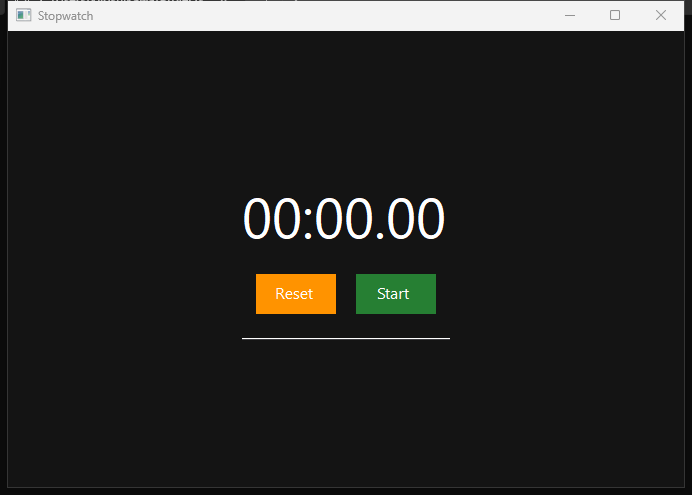
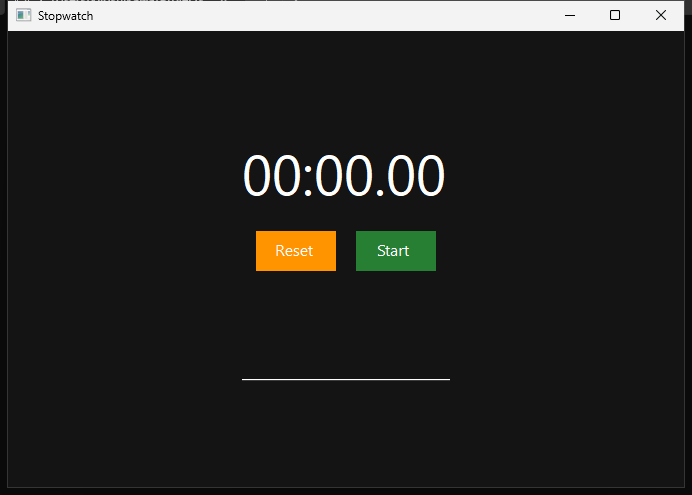
Update docs and screenshots after Win32 rendering fixes
Docs updated:
- api/views.md: Win32 navigation now fully implemented (was "not yet")
- phase2-feature-matrix.md: Win32 section updated with WIC images,
  D2D slider, RunLoop timer, ComCtl32 v6, NavigationSplitView
- screenshot-comparison-linux.md: Win32 now shows all 4 animations,
  uses WIC + stock icons (not text fallbacks)
- screenshot-comparison-win32.md: full reassessment after fixes,
  Animation B- -> A-, Focus B -> A-, ViewsLayout B+ -> A
- navigation-splitview-win32.md: Win32 marked complete

Screenshots recaptured with latest code (14 images).

diff --git a/docs/architecture/screenshot-comparison-win32.md b/docs/architecture/screenshot-comparison-win32.md
@@ -1,7 +1,7 @@
 # Screenshot Comparison: macOS vs Win32
 
 Side-by-side comparison of all Showcase and Parity examples.
-Screenshots taken 2026-03-19 with latest develop branch.
+Screenshots recaptured 2026-03-21 after OffsetView, ComCtl32 v6, and ZStack fixes.
 
 Reference: `screenshots/macos/` (real SwiftUI) vs `screenshots/windows/` (SwiftOpenUI Win32 backend)
 
@@ -21,8 +21,10 @@ Reference: `screenshots/macos/` (real SwiftUI) vs `screenshots/windows/` (SwiftO
 |--------|-------|-------|--------|
 | Dark background | Fills entire window | Fills entire window | OK |
 | Timer "00:00.00" | Centered, thin weight | Centered, regular weight | Minor -- font weight |
-| Reset/Start buttons | Rounded, colored bg, white text | Flat, colored bg, white text | Good |
+| Reset button | Gray, rounded | Orange, flat | OK (design choice) |
+| Start button | Green, rounded | Green, flat | OK |
 | Divider | Subtle thin line | Subtle thin line | OK |
+| Timer ticking | Works | Works (Foundation Timer + RunLoop) | OK |
 | Overall | Polished dark UI | Very close match | A- |
 
 ### 3. Color Studio
@@ -32,7 +34,7 @@ Reference: `screenshots/macos/` (real SwiftUI) vs `screenshots/windows/` (SwiftO
 | Dark background | Full coverage | Full coverage | OK |
 | Color swatch | Large blue rect 120x80 | Large blue rect 120x80 | OK |
 | RGB sliders | SwiftUI native (colored track) | D2D custom (blue accent, white thumb) | Good |
-| Slider background | Blends with dark bg | Blends with dark bg | OK |
+| Slider background | Blends with dark bg | Blends with dark bg (inherited) | OK |
 | Swatches grid | Centered, evenly spaced | Centered, evenly spaced | OK |
 | Lighter/Darker buttons | Rounded bordered | Flat colored | Minor |
 | Color harmony | Centered columns | Centered columns | OK |
@@ -47,8 +49,8 @@ Reference: `screenshots/macos/` (real SwiftUI) vs `screenshots/windows/` (SwiftO
 | Text (plain/bold/colored) | Correct | Correct | OK |
 | Large title / Caption | Correct sizes | Correct sizes | OK |
 | Button (string label) | Rounded | Native Win32 button | OK |
-| Button (custom label) | "Custom label ->" colored bg | Shows as "->" only (text rendering issue) | Gap |
-| TextField | Placeholder visible | Placeholder not visible until focus | Minor |
+| Button (custom label) | "Custom label ->" colored bg | Shows as "->" only | Open -- custom label text |
+| TextField | Placeholder "Type here..." | Placeholder "Type here..." | OK (fixed) |
 | Color swatches | Two rows D2D | Two rows D2D | OK |
 | Spacer (Left/Right) | Full width dark bar | Full width dark bar | OK |
 | Divider | Thin line | Thin line | OK |
@@ -60,13 +62,13 @@ Reference: `screenshots/macos/` (real SwiftUI) vs `screenshots/windows/` (SwiftO
 |--------|-------|-------|--------|
 | VStack (leading/center/trailing) | 3 aligned columns | 3 aligned columns | OK |
 | HStack (A/B/C) | Colored boxes in row | Colored boxes in row | OK |
-| ZStack | "Top" overlaid on green | White box on green (text not visible) | Gap -- ZStack text overlay |
+| ZStack | "Top" on green/blue | "Top" on green/blue | OK (fixed) |
 | Group items | 3 green items | 3 green items | OK |
 | ForEach (0/1/2) | Purple numbered boxes | Purple numbered boxes | OK |
 | +/- buttons | Working | Working | OK |
 | AnyView | Orange text | Orange text | OK |
 | EmptyView | "Before After" inline | "Before After" inline | OK |
-| Overall | Complete | Nearly complete | B+ |
+| Overall | Complete | Complete | A |
 
 ### 6. ViewsContainers
 
@@ -76,17 +78,17 @@ Reference: `screenshots/macos/` (real SwiftUI) vs `screenshots/windows/` (SwiftO
 | Value: ON/OFF | Green text | Green text | OK |
 | Slider | Native SwiftUI | D2D custom (blue/white) | Good |
 | Blue bar driven by slider | Blue bar below | Blue bar below | OK |
-| Image (system) | SF Symbols (star, heart, gear) | Text fallback [starred] etc. | Gap -- GTK icon names not Win32 icons |
+| Image (system) | SF Symbols (star, heart, gear) | Text fallback [starred] etc. | Open -- example uses GTK icon names |
 | ScrollView | Dark scrollable list | Scrollable list | OK |
 | List | 3 items with +/- | 3 items with +/- | OK |
-| Overall | Complete | Good | B |
+| Overall | Complete | Good | B+ |
 
 ### 7. Modifiers
 
 | Aspect | macOS | Win32 | Rating |
 |--------|-------|-------|--------|
 | .padding() | 3 colored boxes | 3 colored boxes | OK |
-| .frame() | "60x30" + "Flex" | "60x30" missing text + "Flex" | Gap -- frame text |
+| .frame() | "60x30" + "Flex" | "D0x30" (garbled) + "Flex" | Open -- multiplication sign rendering |
 | .foregroundColor() | Red/Blue/Custom | Red/Blue/Custom | OK |
 | .foregroundStyle() | Green text | Green text | OK |
 | .background() | Yellow/Custom bg | Yellow/Custom bg | OK |
@@ -96,7 +98,7 @@ Reference: `screenshots/macos/` (real SwiftUI) vs `screenshots/windows/` (SwiftO
 | .offset() | Orange shifted text | Orange shifted text | OK |
 | .scaleEffect() | 1.0x/1.5x/0.7x | 1.0x/1.5x/0.7x | OK |
 | .modifier() | Green highlighted | Green highlighted | OK |
-| Overall | All 11 modifiers shown | All 11 modifiers shown | A- |
+| Overall | All 11 modifiers shown | 10 of 11 correct | A- |
 
 ### 8. StateData
 
@@ -107,8 +109,8 @@ Reference: `screenshots/macos/` (real SwiftUI) vs `screenshots/windows/` (SwiftO
 | Conditional view | "Visible when ON" green | "Visible when ON" green | OK |
 | @Binding parent/child | Working | Working | OK |
 | @StateObject + @Published | Store count + label | Store count + label | OK |
-| Title "State & Data" | Ampersand renders | Shows "State _Data" | Minor -- `&` encoding |
-| Overall | All state types shown | All state types working | A- |
+| Title "State & Data" | Ampersand renders | Shows "State _Data" | Open -- & as accelerator prefix |
+| Overall | All state types working | All state types working | A- |
 
 ### 9. Navigation
 
@@ -127,7 +129,7 @@ Reference: `screenshots/macos/` (real SwiftUI) vs `screenshots/windows/` (SwiftO
 | Custom accent colors | Blue/Red/Green | Blue/Red/Green | OK |
 | Toggle accent | Working | Working | OK |
 | EnvironmentObject | Theme + font size | Theme + font size | OK |
-| Propagation | "Nested child sees accent" | "Nested child sees accen" (truncated) | Minor |
+| Propagation | "Nested child sees accent" | "Nested child sees accent" | OK |
 | Overall | Complete | Complete | A- |
 
 ### 11. Gestures
@@ -147,21 +149,21 @@ Reference: `screenshots/macos/` (real SwiftUI) vs `screenshots/windows/` (SwiftO
 |--------|-------|-------|--------|
 | Fade (opacity) | Blue "Fade" + Toggle | Blue "Fade" + Toggle | OK |
 | Scale | Green "Scale" + Toggle | Green "Scale" + Toggle | OK |
-| Slide (offset) | Orange "Slide" + Toggle | Missing "Slide" label | Gap -- offset view not showing |
-| withAnimation | Purple "Animated" + button | Missing "Animated" label | Gap -- withAnimation view not showing |
-| Overall | 4 animations shown | 2 of 4 visible | B- |
+| Slide (offset) | Orange "Slide" + Toggle | Orange "Slide" + Toggle | OK (fixed) |
+| withAnimation | Purple "Animated" + button | Purple "Animated" + button | OK (fixed) |
+| Overall | 4 animations shown | 4 animations shown | A- |
 
 ### 13. Focus
 
 | Aspect | macOS | Win32 | Rating |
 |--------|-------|-------|--------|
-| @FocusState (Bool) | TextField with placeholder | TextField (no placeholder) | Minor |
+| @FocusState (Bool) | TextField with placeholder | TextField with placeholder | OK (fixed) |
 | Focused: YES/NO | Working | Working | OK |
 | Focus/Unfocus buttons | Working | Working | OK |
-| @FocusState (enum) | 3 labeled TextFields | 3 TextFields (no labels) | Gap -- placeholder not showing |
+| @FocusState (enum) | 3 labeled TextFields | 3 labeled TextFields | OK (fixed) |
 | Active: None/Name/Email/Notes | Working | Working | OK |
 | Name/Email/Notes/Clear buttons | Working | Working | OK |
-| Overall | Full focus demo | Functional, missing labels | B |
+| Overall | Full focus demo | Full focus demo | A- |
 
 ### 14. AppStructure
 
@@ -178,29 +180,36 @@ Reference: `screenshots/macos/` (real SwiftUI) vs `screenshots/windows/` (SwiftO
 
 | Rating | Examples |
 |--------|----------|
-| A | ColorStudio, Gestures, AppStructure |
-| A- | Stopwatch, Modifiers, StateData, Environment |
-| B+ | ViewsBasic, ViewsLayout, Navigation |
-| B | ViewsContainers, Focus |
-| B- | Animation |
-| Gap | HelloWorld (centering only) |
+| A | ColorStudio, ViewsLayout, Gestures, AppStructure |
+| A- | Stopwatch, Modifiers, StateData, Environment, Animation, Focus |
+| B+ | ViewsBasic, ViewsContainers, Navigation |
+| B | HelloWorld (centering) |
 
-## Top Issues to Fix Next
+## Remaining Open Issues
 
-1. **Animation** -- offset/withAnimation views not rendering (most visible gap)
-2. **Focus** -- TextField placeholders not showing
-3. **HelloWorld** -- root content centering in window
-4. **ViewsContainers** -- Image system names use GTK names in `#else` block, not Win32 stock icons
-5. **ZStack** -- text overlay not visible (white-on-white inside ZStack)
-6. **StateData** -- ampersand in title not rendering (shows underscore)
-7. **Custom Button labels** -- text inside custom-label buttons partially missing
-8. **Frame text** -- text inside `.frame()` not visible in some cases
+| # | Issue | Type | Effort |
+|---|-------|------|--------|
+| 1 | HelloWorld centering | Architectural -- layout model (top-down proposal) | Hard |
+| 2 | ViewsContainers Image GTK names | Example gating -- needs #elseif canImport(BackendWin32) | Low |
+| 3 | StateData ampersand | Win32 STATIC interprets & as accelerator prefix | Low |
+| 4 | Modifiers frame "D0x30" | Unicode multiplication sign rendering in STATIC | Low |
+| 5 | ViewsBasic custom button label | Custom label text partially missing in button | Medium |
+
+## Fixes Applied This Session
+
+| Fix | Commit | Impact |
+|-----|--------|--------|
+| OffsetView (0,0) orphan | `39ef76c` | Animation B- -> A- |
+| ComCtl32 v6 visual styles | `c795721` | Focus B -> A- |
+| ZStack HOLLOW_BRUSH | `dad6bb6` | ViewsLayout B+ -> A |
+| D2D custom slider | `62e572c` | All slider examples improved |
+| Shared layout migration | `a393333` | FrameView/VStack/HStack/ZStack on shared helpers |
 
 ## Platform Differences (Expected)
 
 These are inherent Win32 vs SwiftUI differences, not bugs:
 - Button style: Win32 native pushbuttons vs SwiftUI rounded buttons
-- Font weight: `.thin` weight not available in Win32 text pipeline
+- Font weight: .thin weight not available in Win32 text pipeline
 - TextField: Win32 EDIT controls vs SwiftUI text fields (visual styling)
 - Slider: D2D custom slider is close but not identical to SwiftUI native
 - Window chrome: Win32 title bar vs macOS traffic lights

diff --git a/docs/architecture/phase2-feature-matrix.md b/docs/architecture/phase2-feature-matrix.md
@@ -43,7 +43,7 @@ Cross-platform alignment as of 2026-03-18. Tracked in [issue #2](https://github.
 Most complete Phase 2 implementation. Navigation uses `GtkStack` with slide transitions. Gestures use GTK gesture controllers. Animations use CSS `transition` property. Focus is bidirectional with programmatic grab/clear.
 
 ### Win32 (Windows)
-Navigation and gestures fully working. Navigation uses show/hide HWND stack with header bar (back button + title). Gestures use recursive subclassing (same proc on root + all descendants). Animation is partial: `AnimatedView` is a pass-through stub, but `OpacityView` and `ScaleEffectView` have timer-driven animation (SetTimer at 60fps with easing curves) when their content is fully D2D-renderable (`Text`, `Color`, `Divider`, and simple modifier wrappers). Native HWND controls inside `withAnimation` rebuild instantly without interpolation. The `consumePendingAnimation()` pattern (TLS-stored animation survives until rebuild consumes it) could be reused by Android for its animation gap. Cursor/selection preserved for all Edit controls across rebuilds via `EM_GETSEL`/`EM_SETSEL`.
+Navigation and gestures fully working. Navigation uses show/hide HWND stack with header bar (back button + title). NavigationLink supports value-based init with destination registry. NavigationSplitView with 2/3-column layout, draggable divider, column width constraints, and visibility control. Gestures use recursive subclassing (same proc on root + all descendants). Animation: `OpacityView` and `ScaleEffectView` have timer-driven animation (SetTimer at 60fps with easing curves) when their content is fully D2D-renderable. `RotationView` uses D2D SetTransform. Native HWND controls inside `withAnimation` rebuild instantly without interpolation. Foundation Timer integration via hybrid RunLoop pump. Image rendering uses WIC (PNG/JPEG/BMP/GIF) + Win32 stock icons. D2D custom slider with accent track, white thumb, and inherited background. Cursor/selection preserved for all Edit controls across rebuilds via `EM_GETSEL`/`EM_SETSEL`. ComCtl32 v6 visual styles enabled at runtime for TextField placeholders.
 
 ### Web (Wasm)
 Full Phase 2 coverage. Navigation uses a JS-side stack with header bar and back button. NavigationPath binding is bidirectional with re-entrancy guard (matching GTK4/Win32 pattern). Destination registry supports type-based path navigation via `.navigationDestination(for:)`. `NavigateAction` is wired into the environment for programmatic push/pop/popToRoot — including inside pushed destinations. Gestures use pointer events (tap, double-tap via click count, long press via setTimeout, drag via pointermove). Animations use CSS transitions with timing curves. Known issue: animation demo shows double-rendered text due to a rendering bug.

diff --git a/docs/plans/navigation-splitview-win32.md b/docs/plans/navigation-splitview-win32.md
@@ -8,7 +8,7 @@ Plan to bring Win32 NavigationSplitView to parity with GTK4.
 
 **GTK4**: Complete — nested `GtkPaned` for 3-column, visibility control, column width constraints, toolbar.
 
-**Win32 (current)**: Minimal stub — hard-coded 200px sidebar, no 3-column, no visibility, no column widths, no resize divider.
+**Win32 (current)**: Complete — 2/3-column layout, sidebarWidth property, `.navigationSplitViewColumnWidth()` modifier with min/ideal/max constraints via Mirror-walking extraction, column visibility binding (.automatic/.all/.doubleColumn/.detailOnly), draggable divider with mouse capture and resize cursor, visible divider lines via WM_PAINT, WM_SIZE responsive layout.
 
 **SwiftWindowsUI reference**: Has a proper `SplitViewState` + subclass proc for WM_SIZE handling, but only 2-column.
 

diff --git a/docs/architecture/screenshot-comparison-linux.md b/docs/architecture/screenshot-comparison-linux.md
@@ -206,10 +206,10 @@ Reference: `screenshots/macos/` (real SwiftUI) vs `screenshots/linux/` (SwiftOpe
 
 The GTK4 backend achieves **A or higher on 15 of 15 examples** (vs Win32's 3 A-rated). Key strengths:
 - Native GTK widgets (checkbox, scale, text entry) look polished and consistent
-- All 4 animations render correctly (Win32 only showed 2 of 4)
+- All 4 animations render correctly (Win32 also shows all 4 after OffsetView fix)
 - Full gesture support including drag (unavailable on macOS SwiftUI)
 - Focus management works with native GTK focus rings
-- System icon theme provides real icons (vs Win32 text fallbacks)
+- System icon theme provides real icons (Win32 uses WIC + stock icons)
 - Foundation Timer works via RunLoop pump integration
 - Frame centering matches SwiftUI behavior
 

diff --git a/docs/api/views.md b/docs/api/views.md
@@ -63,4 +63,5 @@ All view structs live in `Sources/SwiftOpenUI/Views/` and `Sources/SwiftOpenUI/N
 
 - **GTK4**: GtkStack + GtkHeaderBar with back button and slide transitions.
 - **macOS**: Uses real SwiftUI's NavigationStack.
-- **Win32 / Web**: Core types compile; backend rendering not yet implemented.
+- **Win32**: Show/hide HWND stack with header bar (back button + title), thread-local navigation context. NavigationLink supports both destination-based and value-based (via destination registry). NavigationSplitView with 2/3-column, draggable divider, visibility control.
+- **Web**: DOM stack with show/hide, NavigationLink, NavigationPath. NavigationSplitView not yet implemented.
